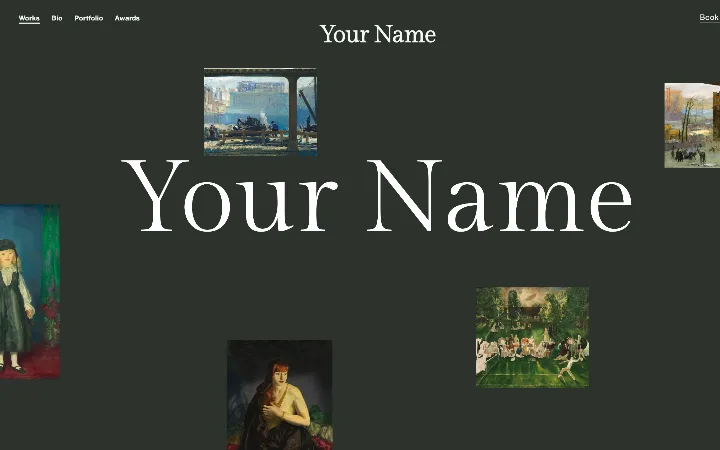
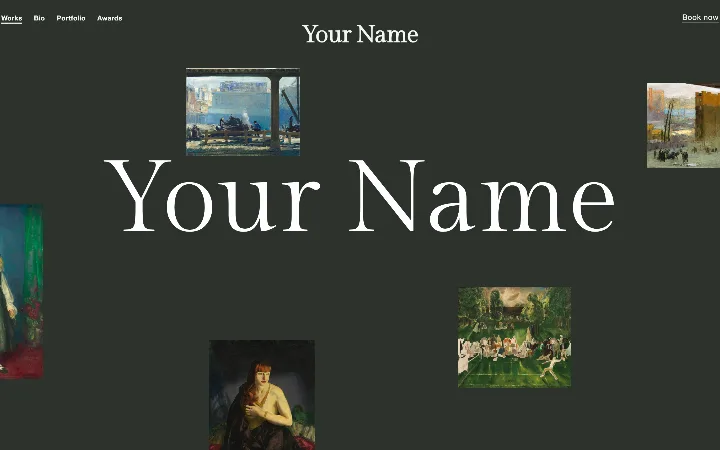
Spec 39: center the template-shot capture crop
The fullscreen-preview iframe measures 1440x858 (AR 1.678), not the card's
16:10 — 42px of editor chrome eats viewport height. The cover-crop in
toWebp() was anchored top-left, so all 35.24px of horizontal overflow came
off the right edge and page-centered content landed ~18px right of card
center in every thumbnail (conservatory's nav wordmark measured 319px from
the left edge and 284px from the right; its top-right "Book now" link was
clipped).

Center the crop horizontally (dx = (width - bitmap.width * scale) / 2) and
regenerate all ten shots. dy stays 0 — a card should keep showing the top of
the page. The fix is generic: it corrects any AR mismatch rather than
assuming today's chrome height. Wordmark margins are now 302/302.

diff --git a/BACKLOG.md b/BACKLOG.md
@@ -1867,7 +1867,33 @@ unique-visitor counting or any cookie/fingerprint mechanism, third-party analyti
 (Plausible/PostHog), per-user event trails (aggregates only), phone/SMS anything,
 the per-artist-site analytics surfaces.
 
-## 39. BUG: template thumbnails are slightly off-center — center the capture crop — `queued`
+## 39. BUG: template thumbnails are slightly off-center — center the capture crop — `done (branch worktree-spec-39-shot-crop, not merged)`
+
+**Outcome.** Hypothesis confirmed by measurement, one-line fix, all ten shots regenerated.
+Playwright probe of the fullscreen-preview iframe: boundingBox `1440×858` → AR **1.6783**,
+not 16:10 (1.6) — 42px of editor chrome (the preview toolbar strip) eats viewport height,
+so the iframe is proportionally wider than the card. Screenshot PNG 2880×1716 at
+deviceScaleFactor 2. Cover scale = 450/1716; scaled width **755.24px** vs the card's 720 →
+**35.24px** of horizontal overflow, all of it cut from the right edge by the old
+`drawImage(bitmap, 0, 0, …)`. Centered offset `dx = −17.62px`.
+Pixel proof on `conservatory.webp` (scanning the centered nav wordmark band y25–45 for
+non-background pixels): **before** left margin 319 / right 284 → 35px asymmetry, exactly the
+computed overflow; **after** 302 / 302, delta **0**. No vertical drift (dy stays 0; the same
+y-band contains the wordmark in both). The old shot also clipped the top-right "Book now"
+link; it is fully visible now.
+**Changed.** `scripts/capture-template-shots.mjs` `toWebp()` only:
+`const dx = (width - bitmap.width * scale) / 2` passed to `drawImage`, with a comment
+explaining the AR mismatch. Generic — no hardcoded chrome height.
+**Regenerated** all ten .webp (KB): atelier 55, clearing 30, conservatory 19,
+contact-sheet 39, marmalade 19, masthead 34, promenade 36, runway 24, signal 32,
+still-room 22.
+**Verified.** `npm run check` (0 errors), `npm test` (40 files / 405 tests), and
+`npm run build:product` (17 pages) all pass; **no stale-manifest complaint** — `scripts/`
+and `public/` are outside the hash set, as the spec predicted, so no `runtime:generate`.
+Browser spot-check in a worktree-local dev server (4482) + product preview (4483):
+`/templates` tiles and the `/editor` start-screen picker both read centered.
+**Not merged** — left on `worktree-spec-39-shot-crop` for the orchestrator (spec 38 is in
+flight on the same integration branch).
 
 William reports every template thumbnail (intake tiles, template picker, start screen,
 /templates page, template-studio dashboard) sits just off center. The display CSS is
